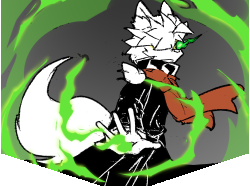
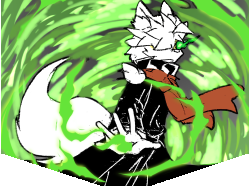
卡图更换

diff --git a/src/main/java/demoMod/icebreaker/cards/lightlemon/MagicalFlood.java b/src/main/java/demoMod/icebreaker/cards/lightlemon/MagicalFlood.java
@@ -1,5 +1,7 @@
 package demoMod.icebreaker.cards.lightlemon;
 
+import com.badlogic.gdx.graphics.Texture;
+import com.badlogic.gdx.graphics.g2d.TextureAtlas;
 import com.megacrit.cardcrawl.actions.common.ApplyPowerAction;
 import com.megacrit.cardcrawl.characters.AbstractPlayer;
 import com.megacrit.cardcrawl.core.CardCrawlGame;
@@ -14,7 +16,8 @@ public class MagicalFlood extends AbstractLightLemonCard {
     private static final CardStrings cardStrings = CardCrawlGame.languagePack.getCardStrings(ID);
     public static final String NAME = cardStrings.NAME;
     public static final String DESCRIPTION = cardStrings.DESCRIPTION;
-    public static final String IMG_PATH = "cards/DeepColdSwamp.png";
+    public static final String IMG_PATH = "cards/MagicalFlood.png";
+    private static final TextureAtlas.AtlasRegion UPGRADE_IMG = new TextureAtlas.AtlasRegion(new Texture(IceBreaker.getResourcePath("cards/MagicalFlood+.png")), 0, 0, 250, 190);
 
     private static final CardType TYPE = CardType.POWER;
     private static final CardRarity RARITY = CardRarity.UNCOMMON;
@@ -40,6 +43,7 @@ public class MagicalFlood extends AbstractLightLemonCard {
         if (!this.upgraded) {
             this.upgradeName();
             this.upgradeBaseCost(0);
+            this.portrait = UPGRADE_IMG;
         }
     }
 
